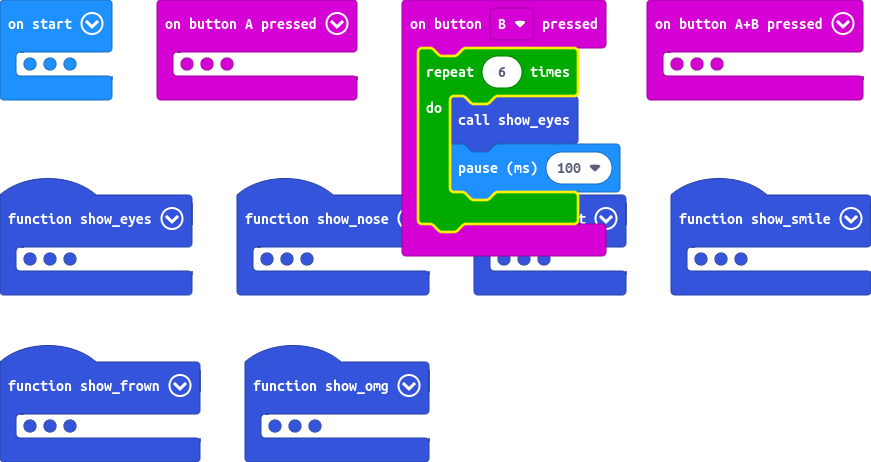
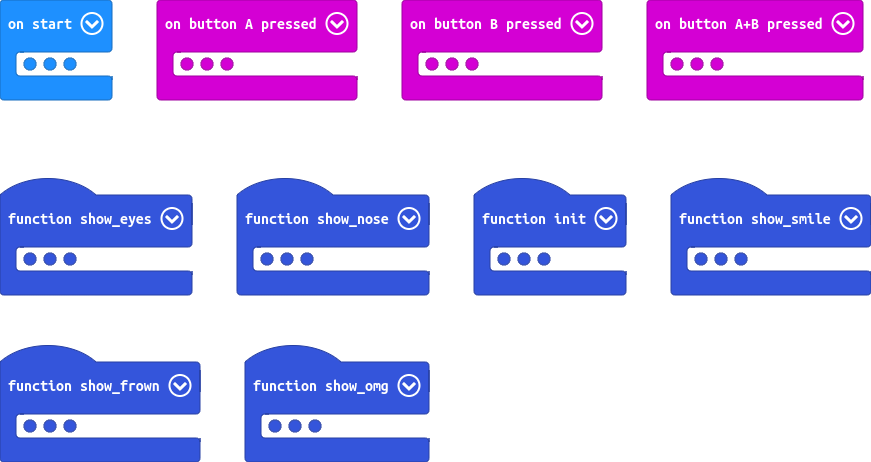
increase eye flash brightness

Changed region(s): [[0.434, 0.0, 0.713, 0.5758]]

diff --git a/main.ts b/main.ts
@@ -78,10 +78,12 @@ input.onButtonPressed(Button.AB, function () {
     show_frown()
 })
 input.onButtonPressed(Button.B, function () {
+    strip.setBrightness(255)
     for (let index = 0; index < 6; index++) {
         show_eyes()
         basic.pause(100)
     }
+    strip.setBrightness(32)
 })
 function show_nose () {
     strip.setPixelColor(nose, neopixel.colors(NeoPixelColors.Red))
